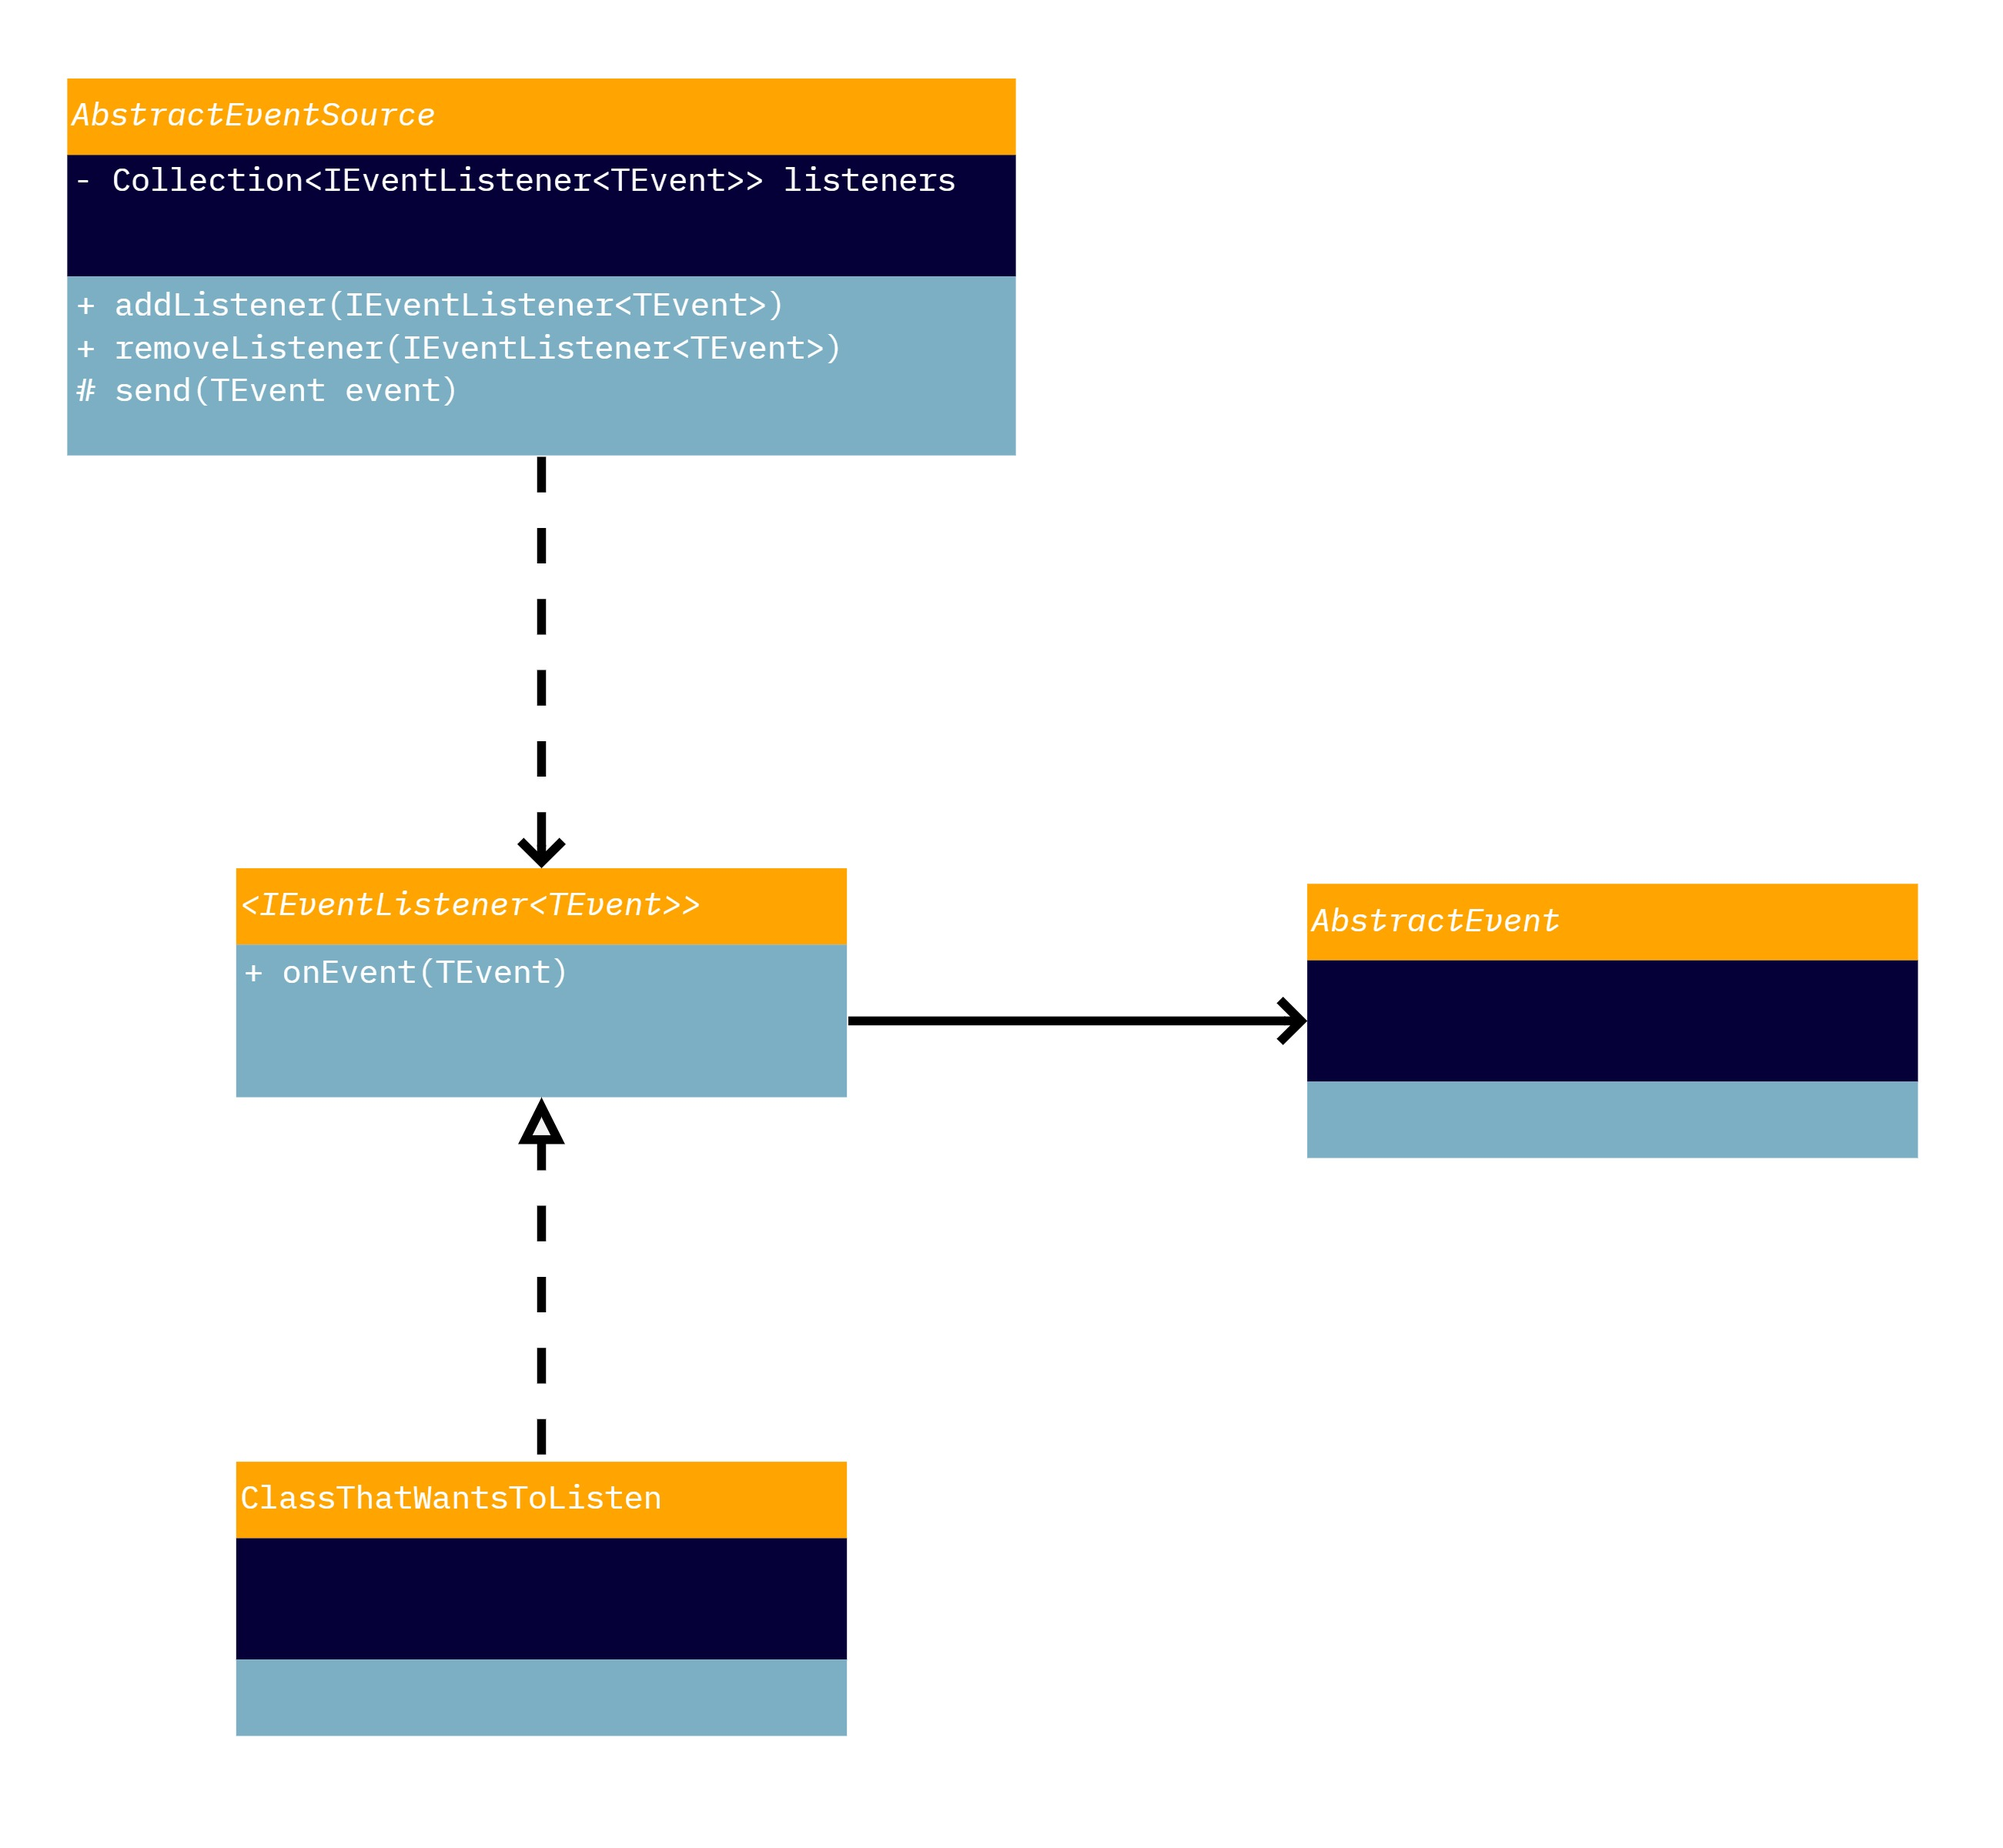
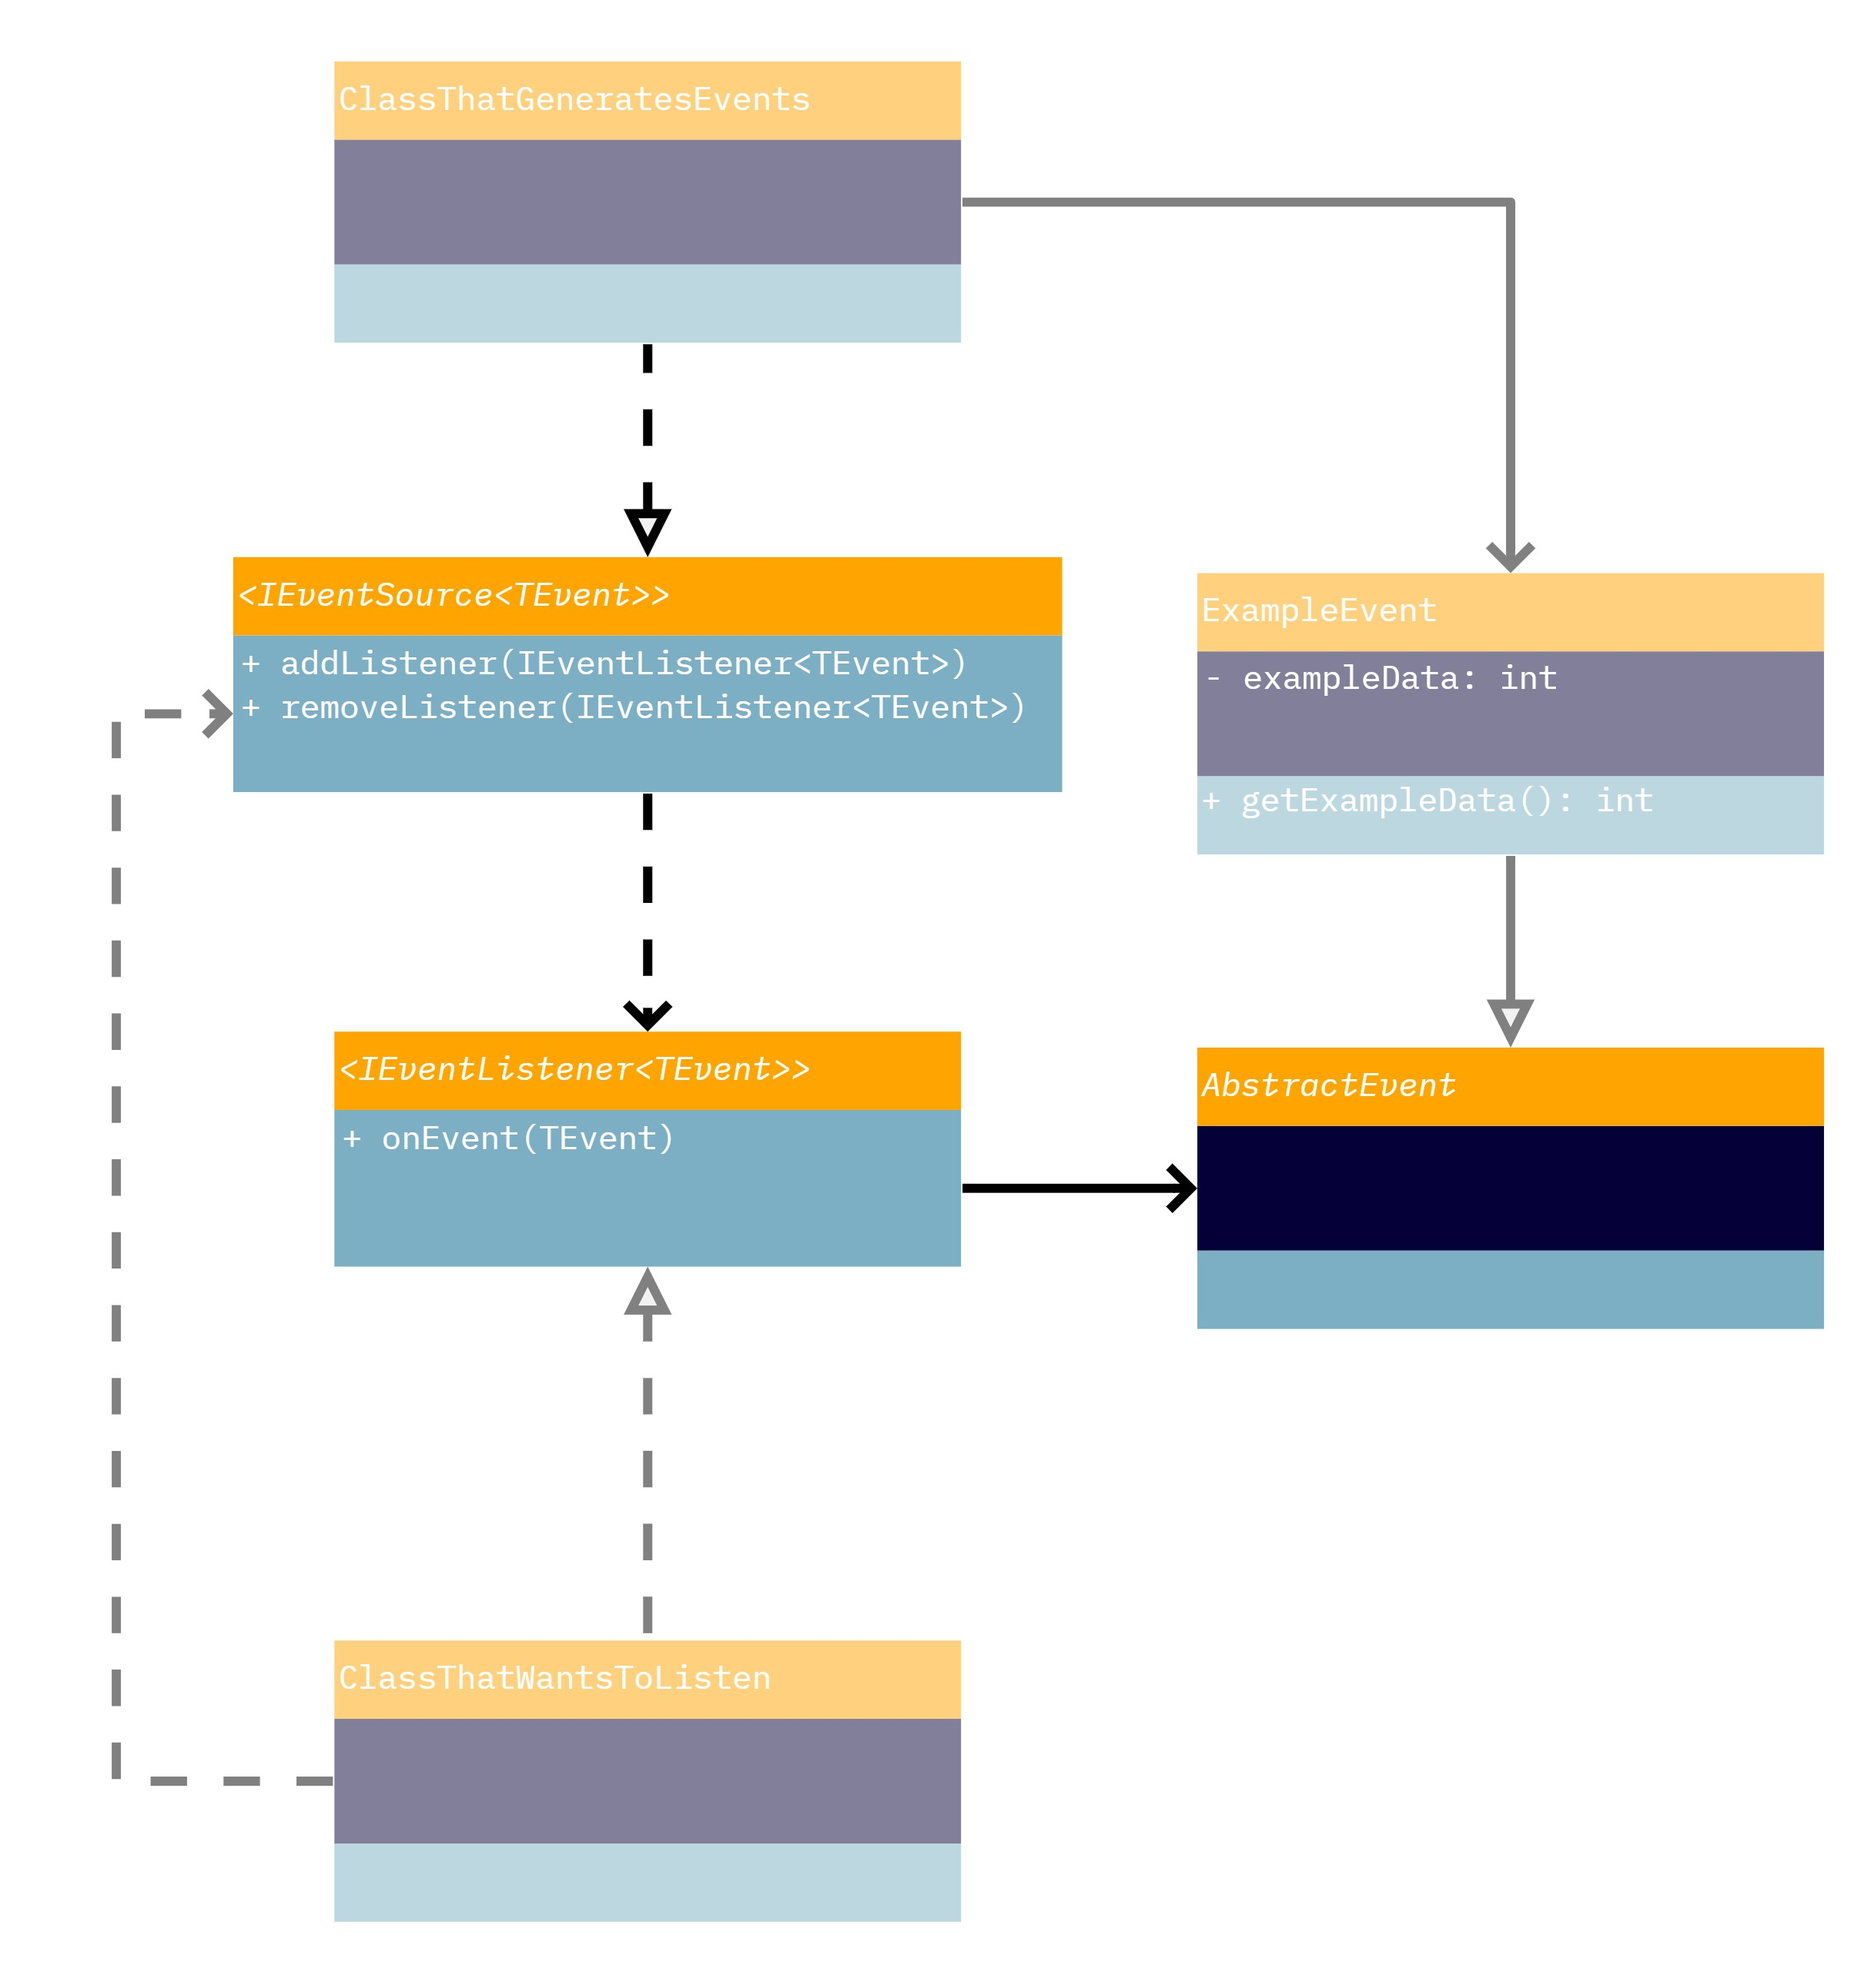
Change AbstractEventSource into an interface, to allow for multiple inheritance
Before this change, a class that wants to generate events can't also extend
another class as it needed to extend AbstractEventsource. With this change,
the class can both extend another class and implement the IEventSource
interface.

diff --git a/src/test/java/com/thebois/listeners/EventSourceTests.java b/src/test/java/com/thebois/listeners/EventSourceTests.java
@@ -1,6 +1,7 @@
 package com.thebois.listeners;
 
 import java.util.ArrayList;
+import java.util.Collection;
 import java.util.List;
 
 import org.junit.jupiter.api.Test;
@@ -15,7 +16,7 @@ public class EventSourceTests {
     public void sendEventCallsAllListeners() {
         // Arrange
         final List<IEventListener<TestEvent>> listeners = mockListeners();
-        final AbstractEventSource<TestEvent> cut = new TestEventSource();
+        final TestEventSource cut = new TestEventSource();
         for (final IEventListener<TestEvent> listener : listeners) {
             cut.addListener(listener);
         }
@@ -41,7 +42,7 @@ public class EventSourceTests {
     public void sendEventWithEventDataSendsEventDataToAllListeners() {
         // Arrange
         final List<IEventListener<TestEvent>> listeners = mockListeners();
-        final AbstractEventSource<TestEvent> cut = new TestEventSource();
+        final TestEventSource cut = new TestEventSource();
         for (final IEventListener<TestEvent> listener : listeners) {
             cut.addListener(listener);
         }
@@ -63,7 +64,7 @@ public class EventSourceTests {
         // Arrange
         final IEventListener<TestEvent> listenerToRemove = mockListener();
         final List<IEventListener<TestEvent>> listenersToKeep = mockListeners();
-        final AbstractEventSource<TestEvent> cut = new TestEventSource();
+        final TestEventSource cut = new TestEventSource();
         for (final IEventListener<TestEvent> listener : listenersToKeep) {
             cut.addListener(listener);
         }
@@ -96,7 +97,28 @@ public class EventSourceTests {
 
     }
 
-    private static class TestEventSource extends AbstractEventSource<TestEvent> {
+    private static class TestEventSource implements IEventSource<TestEvent> {
+
+        private final Collection<IEventListener<TestEvent>> listeners = new ArrayList<>();
+
+        @Override
+        public void addListener(final IEventListener<TestEvent> listener) {
+            listeners.add(listener);
+        }
+
+        @Override
+        public void removeListener(final IEventListener<TestEvent> listener) {
+            if (!listeners.contains(listener)) {
+                throw new IllegalArgumentException("Can not remove listener that is not listening");
+            }
+            listeners.remove(listener);
+        }
+
+        public void send(final TestEvent event) {
+            for (final IEventListener<TestEvent> listener : listeners) {
+                listener.onEvent(event);
+            }
+        }
 
     }
 

diff --git a/src/main/java/com/thebois/listeners/IEventSource.java b/src/main/java/com/thebois/listeners/IEventSource.java
@@ -1,0 +1,26 @@
+package com.thebois.listeners;
+
+/**
+ * Represents a source of events that can be listened to.
+ *
+ * @param <TEvent> The type of the events generated
+ */
+public interface IEventSource<TEvent extends AbstractEvent> {
+
+    /**
+     * Registers a new listener that will be notified about new events.
+     *
+     * @param listener The listener to register
+     */
+    void addListener(IEventListener<TEvent> listener);
+
+    /**
+     * Unregisters a listener so that it will no longer be notified about new events.
+     *
+     * @param listener The listener to unregister
+     *
+     * @throws IllegalArgumentException When trying to unregister a listener that is not registered
+     */
+    void removeListener(IEventListener<TEvent> listener);
+
+}
